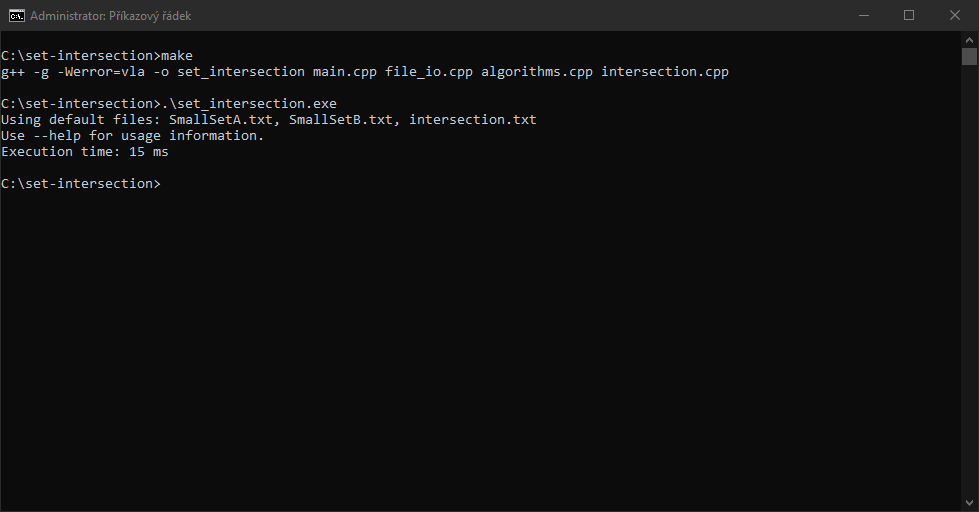
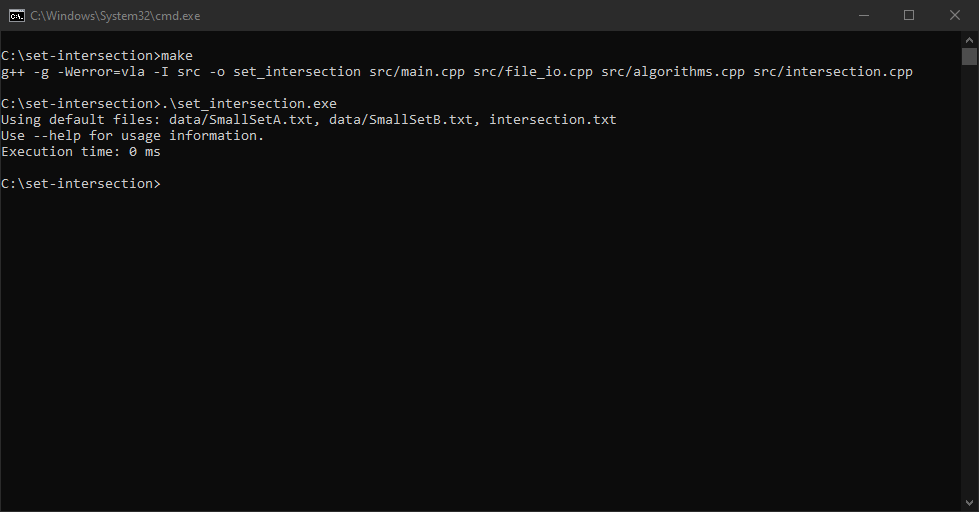
Improve project structure

diff --git a/src/main.cpp b/src/main.cpp
@@ -48,8 +48,8 @@ void printUsage() {
                  "  output  - path to the output file\n"
                  "\n"
                  "If no arguments are provided, default files are used:\n"
-                 "  input1: SmallSetA.txt\n"
-                 "  input2: SmallSetB.txt\n"
+                 "  input1: data/SmallSetA.txt\n"
+                 "  input2: data/SmallSetB.txt\n"
                  "  output: intersection.txt\n";
 }
 
@@ -66,10 +66,10 @@ int main(int argc, char* argv[]) {
         fileB = argv[2];
         outputFile = argv[3];
     } else {
-        std::cout << "Using default files: SmallSetA.txt, SmallSetB.txt, intersection.txt\n";
+        std::cout << "Using default files: data/SmallSetA.txt, data/SmallSetB.txt, intersection.txt\n";
         std::cout << "Use --help for usage information.\n";
-        fileA = "SmallSetA.txt";
-        fileB = "SmallSetB.txt";
+        fileA = "data/SmallSetA.txt";
+        fileB = "data/SmallSetB.txt";
         outputFile = "intersection.txt";
     }
 

diff --git a/src/intersection.cpp b/src/intersection.cpp
@@ -9,12 +9,14 @@ std::vector<int> setIntersection(std::vector<int>& setA, std::vector<int>& setB)
     for (size_t i = 0; i < setA.size(); i++) {    
         if (binarySearch(setB, setA[i]) != -1) {
             added = false;
+            
             for (size_t j = 0; j < intersection.size(); j++) {
                 if (setA[i] == intersection[j]) {
                     added = true;
                     break;
                 }
             }
+
             if (!added)
                 intersection.push_back(setA[i]);
         }

diff --git a/README.md b/README.md
@@ -17,12 +17,12 @@ make && .\set_intersection.exe
 
 Custom files:
 ```sh
-.\set_intersection.exe input1.txt input2.txt output.txt
+make && .\set_intersection.exe input1.txt input2.txt output.txt
 ```
 
 Help:
 ```sh
-.\set_intersection.exe --help
+make && .\set_intersection.exe --help
 ```
 
 ## Tests
